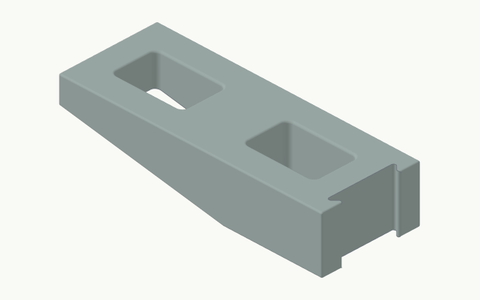
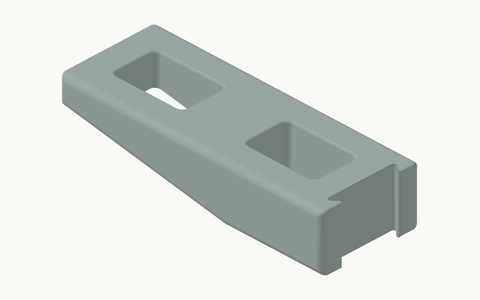
Bind gallery to stable support-end geometry
Regenerate the two rail-end thumbnails and record the sequential cross-platform geometry revision across the complete source-derived inventory.\n\nCo-authored-by: Copilot App <223556219+Copilot@users.noreply.github.com>

diff --git a/tools/render_docs.py b/tools/render_docs.py
@@ -24,7 +24,7 @@ from cargo_grid.catalogue import BRACKET_DISPLAY_NAMES, accessory_variants
 ROOT = Path(__file__).resolve().parents[1]
 BUILD = BuildVolume(350, 320, 325)
 WORKBENCH_REVISION = "c3f63ef8d8604d3ec7eeba40a229047887c03d86"
-GEOMETRY_REVISION = "c53211171c6830f05a10022e829bc279d91ea9d5"
+GEOMETRY_REVISION = "d0011cc056f6b4e2d6aa0f292b57b2e1fc1c4a4b"
 GEOMETRY_FILES = (
     "parameters.py",
     "interfaces.py",

diff --git a/docs/attachments.md b/docs/attachments.md
@@ -145,6 +145,6 @@ PYTHONPATH=src <workbench-python> tools/render_docs.py --workbench <workbench-ch
 
 Use the workbench's Python interpreter with Pillow already available; paths are supplied locally, not committed. In PowerShell, set `$env:PYTHONPATH='src'` before invoking that interpreter. The script checks geometry modules against the recorded commit, invokes STEP/inspection/render tools, then creates 5 overview PNGs and 56 family-scaled thumbnails. `--compose-only` reuses verified local STEP-derived renders; `--check` verifies the committed files and their one-to-one inventory mapping without Pillow. Intermediate STEP files and raw renders remain ignored. Layout is deterministic; raster bytes can depend on graphics/Pillow versions.
 
-Generator source revision: <code>c5321117<wbr>1c6830f0<wbr>5a10022e<wbr>829bc279<wbr>d91ea9d5</code>. Generator tree: <code>3cb3df7b<wbr>2e786d3e<wbr>55062198<wbr>9b477ee3<wbr>7184335a</code>. Workbench revision: <code>c3f63ef8<wbr>d8604d3e<wbr>c7eeba40<wbr>a2290478<wbr>87c03d86</code>.
+Generator source revision: <code>d0011cc0<wbr>56f6b4e2<wbr>d6aa0f29<wbr>2b57b2e1<wbr>fc1c4a4b</code>. Generator tree: <code>c9b015a2<wbr>ea5059b3<wbr>82955969<wbr>e7033712<wbr>50a340bc</code>. Workbench revision: <code>c3f63ef8<wbr>d8604d3e<wbr>c7eeba40<wbr>a2290478<wbr>87c03d86</code>.
 
 A successful render is not evidence of printability, physical fit, support release or third-party design rights.
